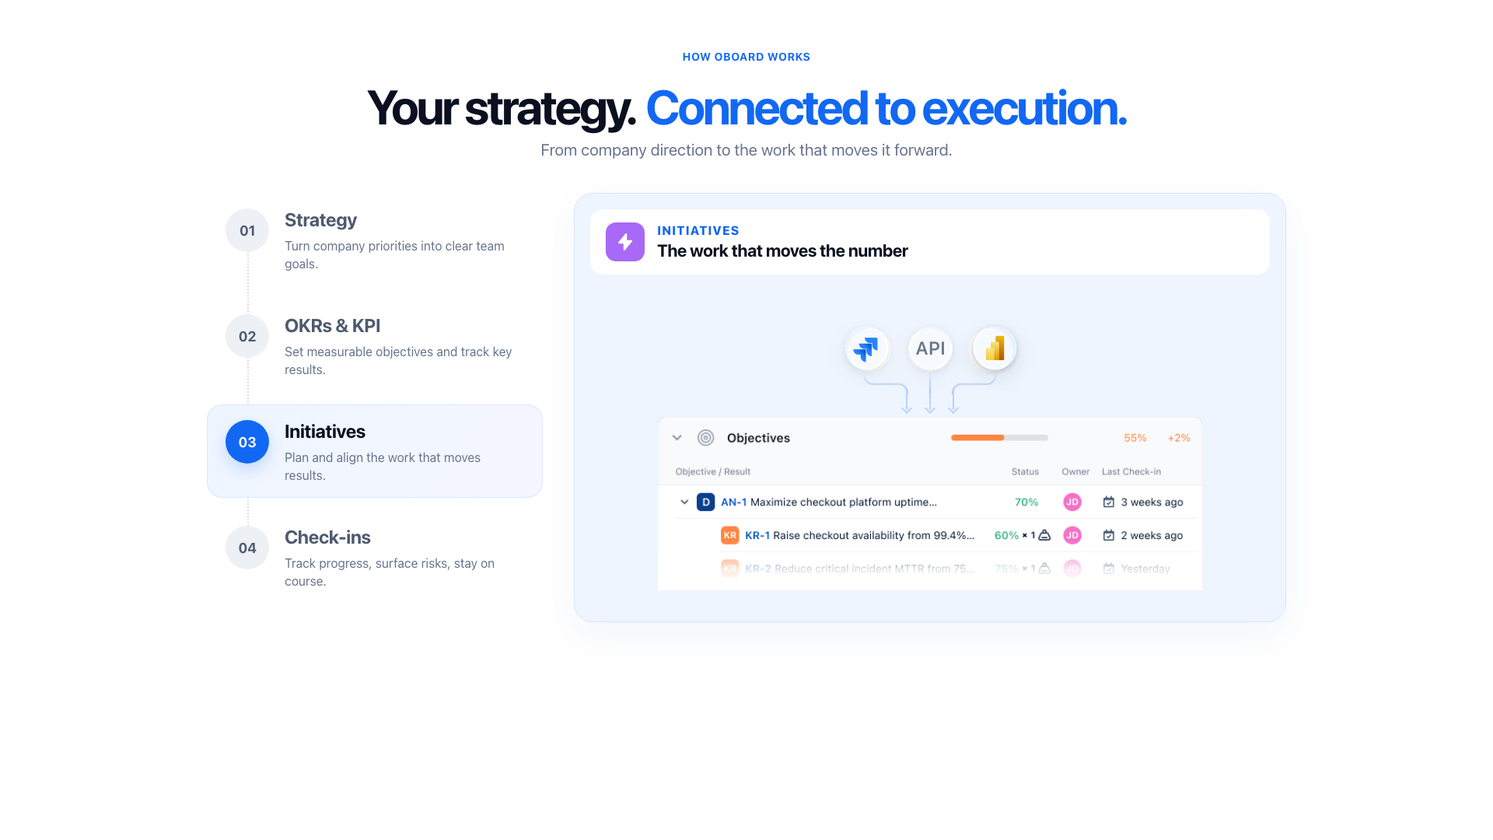
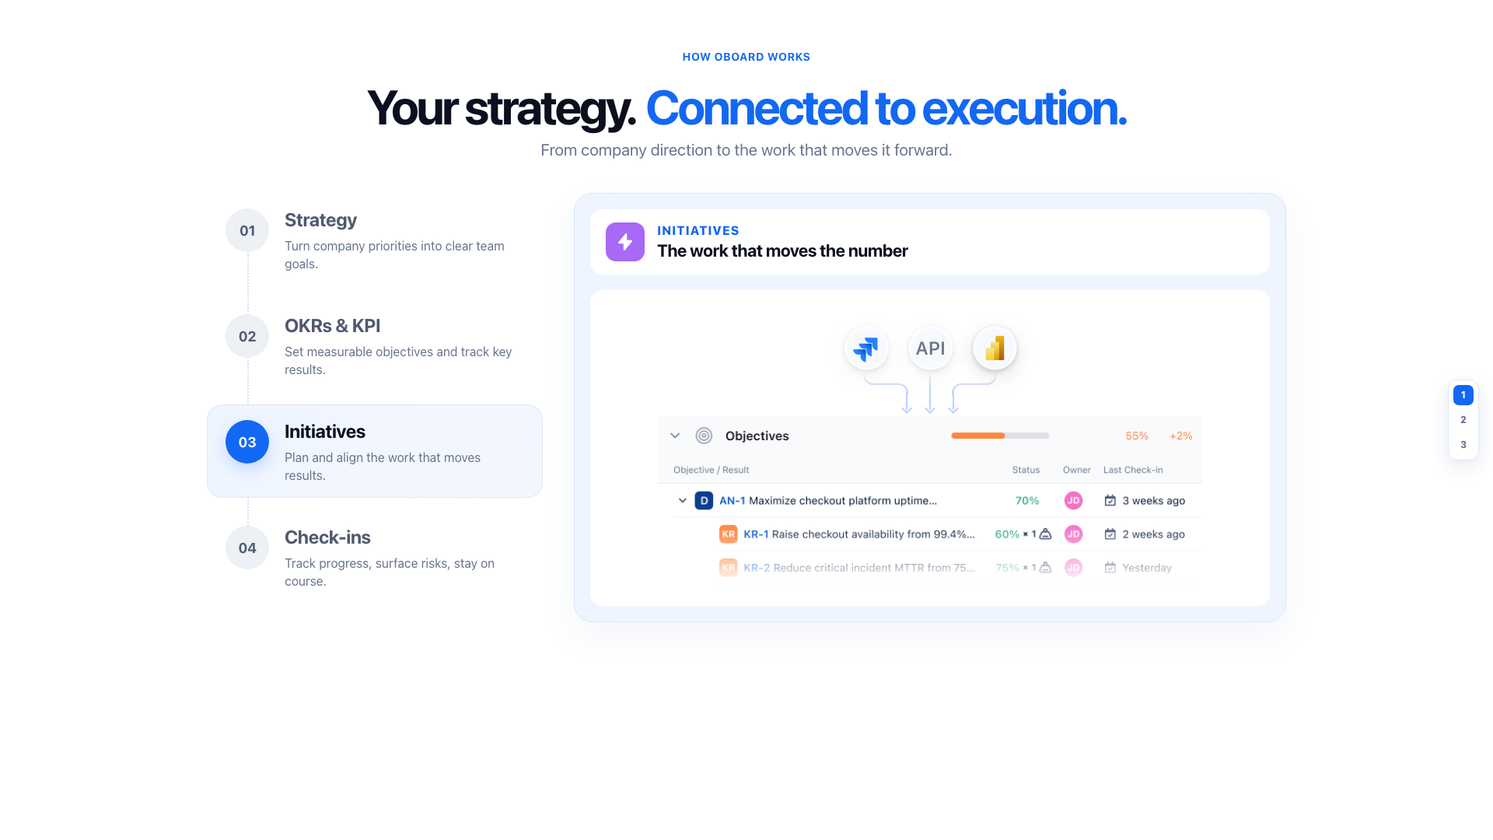
Unify OBoard page headers

diff --git a/viktor-homepage-v2/platform-4-states.html b/viktor-homepage-v2/platform-4-states.html
@@ -6,9 +6,9 @@
 <style>
 :root{--ink:#0b1020;--muted:#68748d;--blue:#1268f3;--violet:#8659ef;--line:#dfe7f2;--panel:#f2f6ff;--good:#0aa66f;--risk:#ef741f}
 *{box-sizing:border-box}body{margin:0;background:#fff;color:var(--ink);font-family:Inter,-apple-system,BlinkMacSystemFont,"Segoe UI",sans-serif;-webkit-font-smoothing:antialiased}
-button{font:inherit}.page{max-width:1500px;margin:auto;padding:64px 56px 76px}.eyebrow{text-align:center;color:var(--blue);font-size:14px;font-weight:700;letter-spacing:.04em;text-transform:uppercase}
-h1{text-align:center;margin:24px 0 10px;font-size:clamp(42px,4.4vw,62px);line-height:1.02;letter-spacing:-.052em}.accent{color:var(--blue);margin-left:.12em}.lede{text-align:center;color:var(--muted);font-size:21px;margin:0 0 44px}
-.story{display:grid;grid-template-columns:430px minmax(0,1fr);gap:38px;align-items:start}.rail{display:grid;grid-template-rows:repeat(4,118px);gap:12px;position:relative;align-self:start}.rail:before{content:"";position:absolute;left:51px;top:48px;bottom:70px;border-left:2px dotted #d9dee8}.tab{position:relative;z-index:1;height:118px;border:0;background:transparent;text-align:left;border-radius:18px;padding:20px 24px;display:grid;grid-template-columns:56px 1fr;gap:18px;align-items:start;cursor:pointer;color:#4f5a70;transition:background .18s,box-shadow .18s,color .18s}
+button{font:inherit}.page{max-width:1500px;margin:auto;padding:64px 56px 76px}.eyebrow{text-align:center;color:var(--blue);font-size:14px;font-weight:800;line-height:1.2;letter-spacing:.08em;text-transform:uppercase}
+h1{text-align:center;margin:20px 0 12px;font-size:56px;font-weight:800;line-height:1.04;letter-spacing:-.052em}.accent{color:var(--blue);margin-left:.12em}.lede{text-align:center;color:var(--muted);font-size:20px;line-height:1.35;margin:0}
+.story{display:grid;grid-template-columns:430px minmax(0,1fr);gap:38px;align-items:start;margin-top:40px}.rail{display:grid;grid-template-rows:repeat(4,118px);gap:12px;position:relative;align-self:start}.rail:before{content:"";position:absolute;left:51px;top:48px;bottom:70px;border-left:2px dotted #d9dee8}.tab{position:relative;z-index:1;height:118px;border:0;background:transparent;text-align:left;border-radius:18px;padding:20px 24px;display:grid;grid-template-columns:56px 1fr;gap:18px;align-items:start;cursor:pointer;color:#4f5a70;transition:background .18s,box-shadow .18s,color .18s}
 .tab:hover{background:#f7f9fd}.tab[aria-selected="true"]{background:linear-gradient(135deg,#eef5ff,#f5f7ff);box-shadow:inset 0 0 0 1px #dbe8fb}.num{width:56px;height:56px;border-radius:50%;display:grid;place-items:center;background:#edf0f5;font-size:18px;font-weight:700}.tab[aria-selected="true"] .num{background:var(--blue);color:#fff;box-shadow:0 8px 20px #1268f333}.tab b{display:block;font-size:24px;line-height:1.2;color:inherit;letter-spacing:-.018em}.tab[aria-selected="true"] b{color:var(--ink)}.tab span:last-child span{display:block;margin-top:8px;font-size:16px;line-height:1.45;color:var(--muted)}
 .stage{position:relative;height:802px;background:#eef5ff;padding:22px;border:1px solid #d8e6fb;border-radius:24px;box-shadow:0 18px 50px rgba(42,87,156,.06);overflow:hidden}.stage:after{content:"";pointer-events:none;position:absolute;z-index:5;left:1px;right:1px;bottom:1px;height:110px;border-radius:0 0 23px 23px;background:linear-gradient(180deg,rgba(238,245,255,0),#eef5ff 86%)}.scene{display:none;animation:in .25s ease}.scene.active{display:block}.scene[data-scene="strategy"],.shot-scene{height:auto;background:transparent;border:0;border-radius:0;padding:0}.scene> *:not(.figma-state):not(.caption){display:none}.figma-state{display:block;width:100%;height:auto}.state-shell,.figma-stack{display:grid;gap:16px}.state-visual,.figma-stack>img{display:block;width:100%;height:auto}.state-head{display:flex;align-items:center;gap:16px;padding:17px 19px;background:#fff;border-radius:16px;box-shadow:0 8px 24px rgba(38,77,140,.06)}.state-icon{width:50px;height:50px;border-radius:13px;background:#e6f0ff;display:grid;place-items:center;flex:none}.state-icon img{width:25px;height:25px;filter:invert(32%) sepia(95%) saturate(2535%) hue-rotate(208deg) brightness(97%) contrast(96%)}.state-icon.initiative{background:#a769f6}.state-icon.initiative img{width:18px;height:22px;filter:brightness(0) invert(1)}.state-copy small{display:block;color:var(--blue);font-size:11px;font-weight:800;letter-spacing:.07em;text-transform:uppercase}.state-copy strong{display:block;margin-top:5px;color:var(--ink);font-size:20px;line-height:1.18;letter-spacing:-.02em}.product-shot{display:none}@keyframes in{from{opacity:0;transform:translateY(7px)}to{opacity:1;transform:none}}
 .hero-card,.card{background:#fff;border:1px solid var(--line);border-radius:15px;box-shadow:0 7px 22px rgba(38,77,140,.05)}.hero-card{padding:22px 24px;display:flex;align-items:center;gap:18px}.ico{width:46px;height:46px;border-radius:13px;display:grid;place-items:center;background:#eaf3ff;color:var(--blue);font-size:24px;font-weight:800;flex:none}.kicker{font-size:12px;text-transform:uppercase;color:var(--blue);font-weight:800;letter-spacing:.04em}.hero-card h2{font-size:28px;line-height:1.15;margin:6px 0 0;letter-spacing:-.025em}.connect{width:2px;height:28px;background:var(--blue);margin:auto}.card{overflow:hidden}.section-title{padding:16px 20px;border-bottom:1px solid var(--line);display:flex;justify-content:space-between;align-items:center;font-size:18px;font-weight:750}.row{display:grid;grid-template-columns:34px minmax(0,1fr) 120px 100px;align-items:center;gap:10px;padding:14px 18px;border-bottom:1px solid #edf1f6}.row:last-child{border:0}.badge{justify-self:end;border-radius:999px;padding:7px 11px;font-size:12px;font-weight:700}.good{background:#e8f8f1;color:var(--good)}.risk{background:#fff1e8;color:var(--risk)}.progress{height:7px;border-radius:99px;background:#e8ebf0;overflow:hidden}.progress i{display:block;height:100%;background:linear-gradient(90deg,#7268f5,#9871ef);border-radius:99px}.stack{display:grid;gap:16px}.grid2{display:grid;grid-template-columns:1.25fr .75fr;gap:16px}.metric{padding:20px}.metric .big{font-size:32px;font-weight:800;letter-spacing:-.04em;margin-top:8px}.metric small{color:var(--muted)}
@@ -35,15 +35,15 @@ h1{text-align:center;margin:24px 0 10px;font-size:clamp(42px,4.4vw,62px);line-he
 .integration-flow{position:relative;aspect-ratio:5.84/1;overflow:hidden;background:transparent}
 .integration-flow img{position:relative;z-index:1;display:block;width:84%;height:auto;margin:0 auto;mix-blend-mode:multiply}
 .flow-discs{position:absolute;z-index:0;inset:0;pointer-events:none}.flow-disc{position:absolute;top:20%;width:6.8%;aspect-ratio:1;border-radius:50%;background:#fff;transform:translateX(-50%)}.flow-disc:nth-child(1){left:40.6%}.flow-disc:nth-child(2){left:50%}.flow-disc:nth-child(3){left:59.4%}
-.flow-cleaner{position:absolute;z-index:2;left:0;right:0;bottom:0;height:20%;background:#eef5ff;pointer-events:none}
+.flow-cleaner{position:absolute;z-index:2;left:0;right:0;bottom:0;height:20%;background:#fff;pointer-events:none}
 .flow-tip{position:absolute;top:-2px;bottom:3px;width:14px;transform:translateX(-50%)}
 .flow-tip:before{content:"";position:absolute;left:6px;top:0;bottom:6px;border-left:2px solid #b8d3ff}
 .flow-tip:after{content:"";position:absolute;left:2px;bottom:3px;width:8px;height:8px;border-right:2px solid #b8d3ff;border-bottom:2px solid #b8d3ff;transform:rotate(45deg)}
 .flow-tip:nth-child(1){left:46.4%}.flow-tip:nth-child(2){left:50%}.flow-tip:nth-child(3){left:53.6%}
 .objectives-frame{position:relative;min-height:0;overflow:hidden;display:grid;place-items:start center;background:transparent}
-.objectives-frame:after{content:"";position:absolute;z-index:3;left:8%;right:8%;bottom:0;height:64px;pointer-events:none;background:linear-gradient(180deg,rgba(255,255,255,0),rgba(255,255,255,.82) 58%,#fff 88%)}
-.objectives-card-shell{width:84%;height:100%;overflow:hidden;border:0;border-radius:0;background:transparent}
-.objectives-frame .objectives-window{display:block;width:107.8%;max-width:none;height:auto;margin:-3.2% 0 0 -3.9%}
+.objectives-frame:after{display:none}
+.objectives-card-shell{width:84%;height:100%;overflow:hidden;border:0;border-radius:0;background:transparent;-webkit-mask-image:linear-gradient(to bottom,#000 0,#000 calc(100% - 96px),rgba(0,0,0,.94) calc(100% - 80px),rgba(0,0,0,.68) calc(100% - 52px),rgba(0,0,0,.22) calc(100% - 20px),transparent 100%);mask-image:linear-gradient(to bottom,#000 0,#000 calc(100% - 96px),rgba(0,0,0,.94) calc(100% - 80px),rgba(0,0,0,.68) calc(100% - 52px),rgba(0,0,0,.22) calc(100% - 20px),transparent 100%)}
+.objectives-frame .objectives-window{display:block;width:108.8%;max-width:none;height:auto;margin:-3.55% 0 0 -4.4%}
 .checkin-window{position:relative;height:390px;overflow:hidden;border-radius:14px;background:transparent;padding:0}
 .checkin-window:after{content:"";position:absolute;z-index:2;left:0;right:0;bottom:0;height:96px;pointer-events:none;background:linear-gradient(180deg,rgba(245,247,250,0) 0%,rgba(245,247,250,.76) 56%,#f5f7fa 82%)}
 .checkin-card{min-height:480px;overflow:hidden;border:1px solid #e3e8ef;border-radius:14px;background:#f5f7fa;color:#10213d}
@@ -66,7 +66,7 @@ h1{text-align:center;margin:24px 0 10px;font-size:clamp(42px,4.4vw,62px);line-he
 .scene[data-scene="okr"] .figma-stack>img{border-radius:0;clip-path:inset(1px)}
 .okr-card{overflow:visible;border:0;border-radius:0;background:transparent}
 .scene[data-scene="okr"] .okr-card>img{display:block;width:100%;height:auto;border-radius:0}
-.initiative-composite{background:transparent}
+.initiative-composite{background:#fff}
 .stage:has(.scene[data-scene="initiatives"].active):after{display:none}
 .stage{--section-gap:18px;--head-height:82px;--head-pad-x:18px;--head-pad-y:16px;--head-icon-gap:16px;padding:var(--section-gap)}
 .state-shell,.figma-stack,.scene[data-scene="checkins"] .state-shell{gap:var(--section-gap)}
@@ -87,6 +87,7 @@ h1{margin:24px 0 12px}
 .scene[data-scene="strategy"] .state-shell{grid-template-rows:var(--head-height) minmax(0,1fr)}
 .checkin-window{height:392px}
 @media(max-width:980px){.page{padding:40px 20px}.story{grid-template-columns:280px minmax(0,1fr);gap:24px}.rail{grid-template-rows:repeat(4,100px);gap:16px}.rail:before{left:36px;top:36px;bottom:64px}.tab{height:100px;grid-template-columns:44px 1fr;padding:16px;gap:12px}.num{width:44px;height:44px}}
+@media(max-width:850px){h1{font-size:42px}.lede{font-size:18px}}
 .page-switcher{position:fixed;z-index:20;right:18px;top:50%;display:grid;gap:6px;transform:translateY(-50%);padding:6px;border:1px solid #dbe7f8;border-radius:12px;background:rgba(255,255,255,.84);box-shadow:0 8px 24px rgba(20,51,97,.10);backdrop-filter:blur(8px)}.page-switcher a{display:grid;place-items:center;width:26px;height:26px;border-radius:7px;color:#62708a;font-size:12px;font-weight:800;text-decoration:none}.page-switcher a:hover{background:#eaf2ff;color:#1268f3}.page-switcher a[aria-current="page"]{background:#1268f3;color:#fff}
 </style>
 </head>

diff --git a/viktor-homepage-v2/agents-timeline.html b/viktor-homepage-v2/agents-timeline.html
@@ -7,15 +7,15 @@
 <style>
 :root{--ink:#090e20;--navy:#142246;--muted:#6b7791;--blue:#1268f3;--blue-2:#6c7cff;--violet:#8438e8;--line:#dbe4f1;--soft:#f2f6ff;--soft-2:#eaf2ff;--good:#0b9f6b;--risk:#ec721f;--shadow:0 18px 44px rgba(35,77,142,.08)}
 *,*::before,*::after{box-sizing:border-box}html{scrollbar-gutter:stable}body{margin:0;background:#fff;color:var(--ink);font-family:Inter,-apple-system,BlinkMacSystemFont,"Segoe UI",sans-serif;-webkit-font-smoothing:antialiased}button{font:inherit}
-.page{width:100%;max-width:1360px;margin:auto;padding:64px 56px 56px}.brand{text-align:center;color:#65738f;font-size:14px;font-weight:800;letter-spacing:.32em}.title{max-width:900px;text-align:center;margin:24px auto 10px;font-size:clamp(42px,4.4vw,62px);line-height:1.02;letter-spacing:-.052em}.title span{color:var(--blue)}.lede{text-align:center;margin:0 auto 44px;color:var(--muted);font-size:21px}
-.cycle{position:relative;--connector-x:50%}.phase-track{position:relative;display:grid;grid-template-columns:repeat(6,minmax(0,1fr));gap:14px;height:54px}.phase-track:before{content:"";position:absolute;left:var(--line-start,8.333%);right:calc(100% - var(--line-end,91.667%));top:38px;height:2px;background:#86b6ff}.phase{position:relative;display:flex;justify-content:center;align-items:flex-start;gap:8px;font-size:16px;font-weight:700;letter-spacing:-.02em;white-space:nowrap}.phase:nth-child(1){grid-column:1}.phase:nth-child(2){grid-column:2/span 2}.phase:nth-child(3){grid-column:4/span 2}.phase:nth-child(4){grid-column:6}.phase-num{font-weight:780}.phase-dot{position:absolute;left:50%;top:29px;width:18px;height:18px;border:2px solid var(--blue);background:white;border-radius:50%;transform:translateX(-50%);z-index:2}.phase:first-child .phase-dot{background:var(--blue);box-shadow:0 0 0 4px #e7f0ff}
+.page{width:100%;max-width:1360px;margin:auto;padding:64px 56px 56px}.brand{text-align:center;color:var(--blue);font-size:14px;font-weight:800;line-height:1.2;letter-spacing:.08em;text-transform:uppercase}.title{max-width:900px;text-align:center;margin:20px auto 12px;font-size:56px;font-weight:800;line-height:1.04;letter-spacing:-.052em}.title span{color:var(--blue)}.lede{text-align:center;margin:0 auto;color:var(--muted);font-size:20px;line-height:1.35}
+.cycle{position:relative;margin-top:40px;--connector-x:50%}.phase-track{position:relative;display:grid;grid-template-columns:repeat(6,minmax(0,1fr));gap:14px;height:54px}.phase-track:before{content:"";position:absolute;left:var(--line-start,8.333%);right:calc(100% - var(--line-end,91.667%));top:38px;height:2px;background:#86b6ff}.phase{position:relative;display:flex;justify-content:center;align-items:flex-start;gap:8px;font-size:16px;font-weight:700;letter-spacing:-.02em;white-space:nowrap}.phase:nth-child(1){grid-column:1}.phase:nth-child(2){grid-column:2/span 2}.phase:nth-child(3){grid-column:4/span 2}.phase:nth-child(4){grid-column:6}.phase-num{font-weight:780}.phase-dot{position:absolute;left:50%;top:29px;width:18px;height:18px;border:2px solid var(--blue);background:white;border-radius:50%;transform:translateX(-50%);z-index:2}.phase:first-child .phase-dot{background:var(--blue);box-shadow:0 0 0 4px #e7f0ff}
 .agents{display:grid;grid-template-columns:repeat(6,minmax(0,1fr));gap:14px;position:relative}.agent{height:152px;border:1px solid var(--line);border-radius:12px;background:#fff;padding:14px;text-align:left;cursor:pointer;color:var(--ink);box-shadow:0 4px 12px rgba(20,48,94,.055),0 1px 2px rgba(20,48,94,.04);transition:transform .18s,box-shadow .18s,background .18s,border-color .18s;position:relative}.agent:hover{transform:translateY(-3px);background:#fafcff;box-shadow:0 13px 26px rgba(20,48,94,.11),0 3px 7px rgba(20,48,94,.05)}.agent[aria-selected=true]{border-color:#6a9df8;background:#f5f8ff;box-shadow:0 12px 24px rgba(18,104,243,.14),0 3px 7px rgba(20,48,94,.06)}.agent-icon{width:38px;height:38px;border-radius:10px;background:#eaf2ff;display:grid;place-items:center;margin-bottom:9px}.agent-icon img{width:23px;height:23px;filter:invert(36%) sepia(93%) saturate(3913%) hue-rotate(208deg) brightness(100%) contrast(91%)}.agent h2{margin:0 0 5px;font-size:17px;line-height:1.12;letter-spacing:-.02em}.agent p{margin:0;color:var(--muted);font-size:13px;line-height:1.32}
 .connector{height:46px;position:relative}.connector:before{content:"";position:absolute;top:0;bottom:14px;width:2px;background:var(--blue);left:var(--connector-x);transform:translateX(-50%);transition:left .24s cubic-bezier(.2,.8,.2,1)}.connector:after{content:"";position:absolute;bottom:4px;width:16px;height:16px;border-radius:50%;background:var(--blue);border:3px solid white;box-shadow:0 0 0 2px #bdd5ff;left:var(--connector-x);transform:translateX(-50%);transition:left .24s cubic-bezier(.2,.8,.2,1)}
 .work{height:384px;border:1px solid #e1e9f5;border-radius:22px;background:linear-gradient(145deg,#eef5ff 0%,#f6f8ff 100%);padding:30px 32px;box-shadow:var(--shadow);overflow:hidden}.work-head{height:94px;display:flex;align-items:flex-start;gap:16px}.work-icon{width:62px;height:62px;border-radius:15px;background:#e3eeff;display:grid;place-items:center;flex:none}.work-icon img{width:36px;height:36px;filter:invert(36%) sepia(93%) saturate(3913%) hue-rotate(208deg) brightness(100%) contrast(91%)}.work-title{min-width:0}.agent-label{color:var(--blue);font-size:12px;font-weight:800;letter-spacing:.05em;text-transform:uppercase}.work-title h3{font-size:clamp(28px,2.3vw,32px);line-height:1.08;letter-spacing:-.035em;margin:4px 0}.work-title p{display:block;margin:0;color:var(--muted);font-size:17px}.work-meta{margin-left:auto;display:flex;align-items:center;gap:18px;text-align:right;color:var(--muted);font-size:14px;line-height:1.35}.rerun{border:1px solid #b8c9e5;background:#fff;color:#263b68;border-radius:10px;height:42px;padding:0 16px;font-size:14px;font-weight:700;cursor:pointer}.rerun:hover{border-color:var(--blue);color:var(--blue)}
 .work-grid{height:214px;margin-top:16px;display:grid;grid-template-columns:minmax(0,1fr) 330px;gap:20px}.result,.summary{background:#fff;border:1px solid #e1e7f0;border-radius:16px;overflow:hidden}.result{padding:22px 24px}.result-kicker,.summary-tag{color:var(--blue);font-size:12px;font-weight:800;letter-spacing:.06em;text-transform:uppercase}.result h4{max-width:800px;font-size:clamp(22px,1.8vw,24px);line-height:1.16;letter-spacing:-.025em;margin:7px 0 4px}.result>p{margin:0;color:var(--muted);font-size:16px;line-height:1.35}.result-action{margin-top:17px;padding:15px 24px;border-radius:12px;background:#f4f8ff;display:flex;align-items:center;justify-content:space-between;gap:18px}.result-action strong{display:block;font-size:15px}.result-action p{margin:3px 0 0;color:var(--muted);font-size:14px}.result-action b{color:var(--blue);font-size:15px;white-space:nowrap}.summary{padding:20px;display:flex;flex-direction:column}.summary-tag{display:block;margin-bottom:10px}.summary h4,.summary>p{display:none}.stats{display:grid;grid-template-columns:minmax(0,1fr) minmax(0,1fr);gap:0;margin-top:auto;border:0;align-items:start}.stat{min-width:0;padding:0;white-space:normal;overflow:hidden}.stat+.stat{border-left:1px solid #e7edf6;padding-left:16px}.stat b{display:block;max-width:100%;font-size:24px;line-height:.95;color:#123885;font-variant-numeric:tabular-nums;overflow-wrap:anywhere}.stat span{display:block;max-width:100%;font-size:12px;color:var(--muted);overflow-wrap:anywhere}.actions{display:grid;grid-template-columns:1fr;gap:8px;margin-top:16px}.action{height:42px;border-radius:10px;border:1px solid #9eb8e2;background:#fff;color:#17356e;font-size:14px;font-weight:760;cursor:pointer}.action#secondaryAction{display:none}.action.primary{border:0;color:#fff;background:linear-gradient(90deg,#1268f3,#8535e7)}.action:hover{filter:brightness(.98)}
 .footer{display:flex;justify-content:space-between;align-items:center;padding:12px 4px 0;color:var(--muted);font-size:12px}.footer a{color:var(--blue);font-size:13px;font-weight:760;text-decoration:none}
 @media(max-width:1100px){.page{padding:38px 20px}.agents{grid-template-columns:repeat(3,1fr)}.agent{height:170px}.phase-track{display:none}.connector{display:none}.work{height:auto;margin-top:22px;padding:26px}.work-head{height:auto;min-height:94px}.work-grid{height:auto;margin-top:16px;grid-template-columns:minmax(0,1fr) 280px}.cycle{--active:0!important}}
-@media(max-width:720px){.title{font-size:40px}.lede{font-size:17px}.agents{grid-template-columns:1fr 1fr}.agent{height:178px}.work{height:auto;padding:20px}.work-head{height:auto;min-height:0}.work-meta{display:none}.work-grid{height:auto;margin-top:18px;grid-template-columns:1fr}.result-action{align-items:flex-start;flex-direction:column}.result-action b{white-space:normal}.summary{min-height:0}.footer{gap:20px;align-items:flex-start}.footer a{text-align:right}}
+@media(max-width:850px){.page{padding-top:40px}.title{font-size:42px}.lede{font-size:18px}}@media(max-width:720px){.agents{grid-template-columns:1fr 1fr}.agent{height:178px}.work{height:auto;padding:20px}.work-head{height:auto;min-height:0}.work-meta{display:none}.work-grid{height:auto;margin-top:18px;grid-template-columns:1fr}.result-action{align-items:flex-start;flex-direction:column}.result-action b{white-space:normal}.summary{min-height:0}.footer{gap:20px;align-items:flex-start}.footer a{text-align:right}}
 /* Desktop approval corrections: keep the summary subordinate and balanced. */
 .stat{padding-right:16px}
 .stat+.stat{padding-left:16px}

diff --git a/viktor-homepage-v2/strategic-context.html b/viktor-homepage-v2/strategic-context.html
@@ -7,18 +7,19 @@
 <style>
 :root{--ink:#09112a;--muted:#68789a;--blue:#1268f3;--line:#cfe0f8;--soft:#f6faff;--u:8px}
 *{box-sizing:border-box}body{margin:0;background:#fff;color:var(--ink);font-family:Inter,-apple-system,BlinkMacSystemFont,"Segoe UI",sans-serif;-webkit-font-smoothing:antialiased}
-.page{width:min(1392px,100%);margin:auto;padding:64px 56px 72px}.title{margin:0;text-align:center;font-size:clamp(48px,5vw,68px);line-height:1.02;letter-spacing:-.055em}.title span{color:var(--blue)}.lede{margin:16px 0 40px;text-align:center;color:var(--muted);font-size:23px;line-height:1.35;letter-spacing:-.02em}
-.prompt{height:80px;display:flex;align-items:center;gap:16px;padding:16px 24px;border:1px solid var(--line);border-radius:16px;font-size:22px;font-weight:650;letter-spacing:-.025em}.spark{display:grid;place-items:center;width:48px;height:48px;flex:none;border-radius:12px;background:#e8f2ff;color:var(--blue);font-size:30px}
+.page{width:min(1392px,100%);margin:auto;padding:64px 56px 72px}.eyebrow{margin:0;text-align:center;color:var(--blue);font-size:14px;font-weight:800;line-height:1.2;letter-spacing:.08em;text-transform:uppercase}.title{margin:20px 0 12px;text-align:center;font-size:56px;font-weight:800;line-height:1.04;letter-spacing:-.052em}.title span{color:var(--blue)}.lede{margin:0;text-align:center;color:var(--muted);font-size:20px;line-height:1.35;letter-spacing:-.02em}
+.prompt{height:80px;display:flex;align-items:center;gap:16px;margin-top:40px;padding:16px 24px;border:1px solid var(--line);border-radius:16px;font-size:22px;font-weight:650;letter-spacing:-.025em}.spark{display:grid;place-items:center;width:48px;height:48px;flex:none;border-radius:12px;background:#e8f2ff;color:var(--blue);font-size:30px}
 .stage{position:relative;margin-top:32px;min-height:488px;padding:32px;border:1px solid var(--line);border-radius:24px;background:#fff;overflow:hidden}.labels{position:relative;z-index:2;display:grid;grid-template-columns:46% 1fr;margin:0 0 24px;color:var(--muted);font-size:14px;line-height:1.2;font-weight:800;letter-spacing:.12em;text-transform:uppercase}.labels span:last-child{padding-left:24px}
 .layout{position:relative;z-index:2;display:grid;grid-template-columns:34% 18% 48%;align-items:start}.signals{display:grid;gap:16px}.signal{min-height:88px;display:flex;align-items:center;gap:16px;padding:16px;border-radius:16px;background:var(--soft);font-size:20px;font-weight:620;line-height:1.25;letter-spacing:-.025em}.iconbox{width:48px;height:48px;display:grid;place-items:center;flex:none;border-radius:12px;background:#e7f1ff;color:var(--blue)}.iconbox img,.iconbox svg{width:26px;height:26px}.iconbox img{filter:invert(33%) sepia(88%) saturate(2896%) hue-rotate(208deg) brightness(98%) contrast(94%)}
 .flow{position:absolute;z-index:1;left:calc(34% - 5px);top:80px;width:20%;height:280px;pointer-events:none;overflow:visible}.flow path{fill:none;stroke:#b7d4ff;stroke-width:1.65;stroke-linecap:round}.flow circle{fill:var(--blue)}
 .decision{grid-column:3;min-width:0}.choice{min-height:168px;display:flex;align-items:center;gap:24px;padding:16px 24px 16px 16px;border-radius:16px;background:linear-gradient(110deg,#f0f7ff,#f8fbff)}.rank{width:112px;height:112px;display:grid;place-items:center;flex:none;border-radius:12px;background:var(--blue);color:#fff;font-size:44px;font-weight:800;letter-spacing:-.055em;box-shadow:0 8px 20px rgba(18,104,243,.18)}.choice h2{margin:0 0 8px;font-size:clamp(26px,2.4vw,34px);line-height:1.05;letter-spacing:-.045em}.choice p{margin:0;max-width:540px;color:#6d7fa3;font-size:20px;line-height:1.35}.provenance{margin-top:32px}.provenance h3{margin:0 0 12px;color:var(--muted);font-size:14px;line-height:1.2;font-weight:800;letter-spacing:.12em;text-transform:uppercase}.provenance p{margin:4px 0;color:var(--muted);font-size:20px;line-height:1.35;letter-spacing:-.02em}.provenance b{color:var(--blue)}.principle{margin:40px 0 0;text-align:center;color:var(--muted);font-size:19px}.principle b{color:#294783}
-@media(max-width:850px){.page{padding:40px 20px}.lede{font-size:18px}.stage{padding:24px 16px}.labels{grid-template-columns:1fr}.labels span:last-child{display:none}.layout{grid-template-columns:1fr}.flow{display:none}.decision{grid-column:auto;margin-top:24px}.signal{min-height:72px;font-size:16px}.choice{gap:16px}.rank{width:80px;height:80px;font-size:32px}.choice h2{font-size:23px}.choice p,.provenance p{font-size:16px}}
+@media(max-width:850px){.page{padding:40px 20px}.title{font-size:42px}.lede{font-size:18px}.stage{padding:24px 16px}.labels{grid-template-columns:1fr}.labels span:last-child{display:none}.layout{grid-template-columns:1fr}.flow{display:none}.decision{grid-column:auto;margin-top:24px}.signal{min-height:72px;font-size:16px}.choice{gap:16px}.rank{width:80px;height:80px;font-size:32px}.choice h2{font-size:23px}.choice p,.provenance p{font-size:16px}}
 .page-switcher{position:fixed;z-index:20;right:18px;top:50%;display:grid;gap:6px;transform:translateY(-50%);padding:6px;border:1px solid #dbe7f8;border-radius:12px;background:rgba(255,255,255,.84);box-shadow:0 8px 24px rgba(20,51,97,.10);backdrop-filter:blur(8px)}.page-switcher a{display:grid;place-items:center;width:26px;height:26px;border-radius:7px;color:#62708a;font-size:12px;font-weight:800;text-decoration:none}.page-switcher a:hover{background:#eaf2ff;color:#1268f3}.page-switcher a[aria-current="page"]{background:#1268f3;color:#fff}
 </style>
 </head>
 <body>
 <main class="page">
+  <p class="eyebrow">Strategic context</p>
   <h1 class="title">A decision you can <span>explain.</span></h1>
   <p class="lede">Strategic context changes the priority — and shows why.</p>
   <div class="prompt"><span class="spark" aria-hidden="true">✦</span><span>Prioritize next quarter’s backlog.</span></div>
